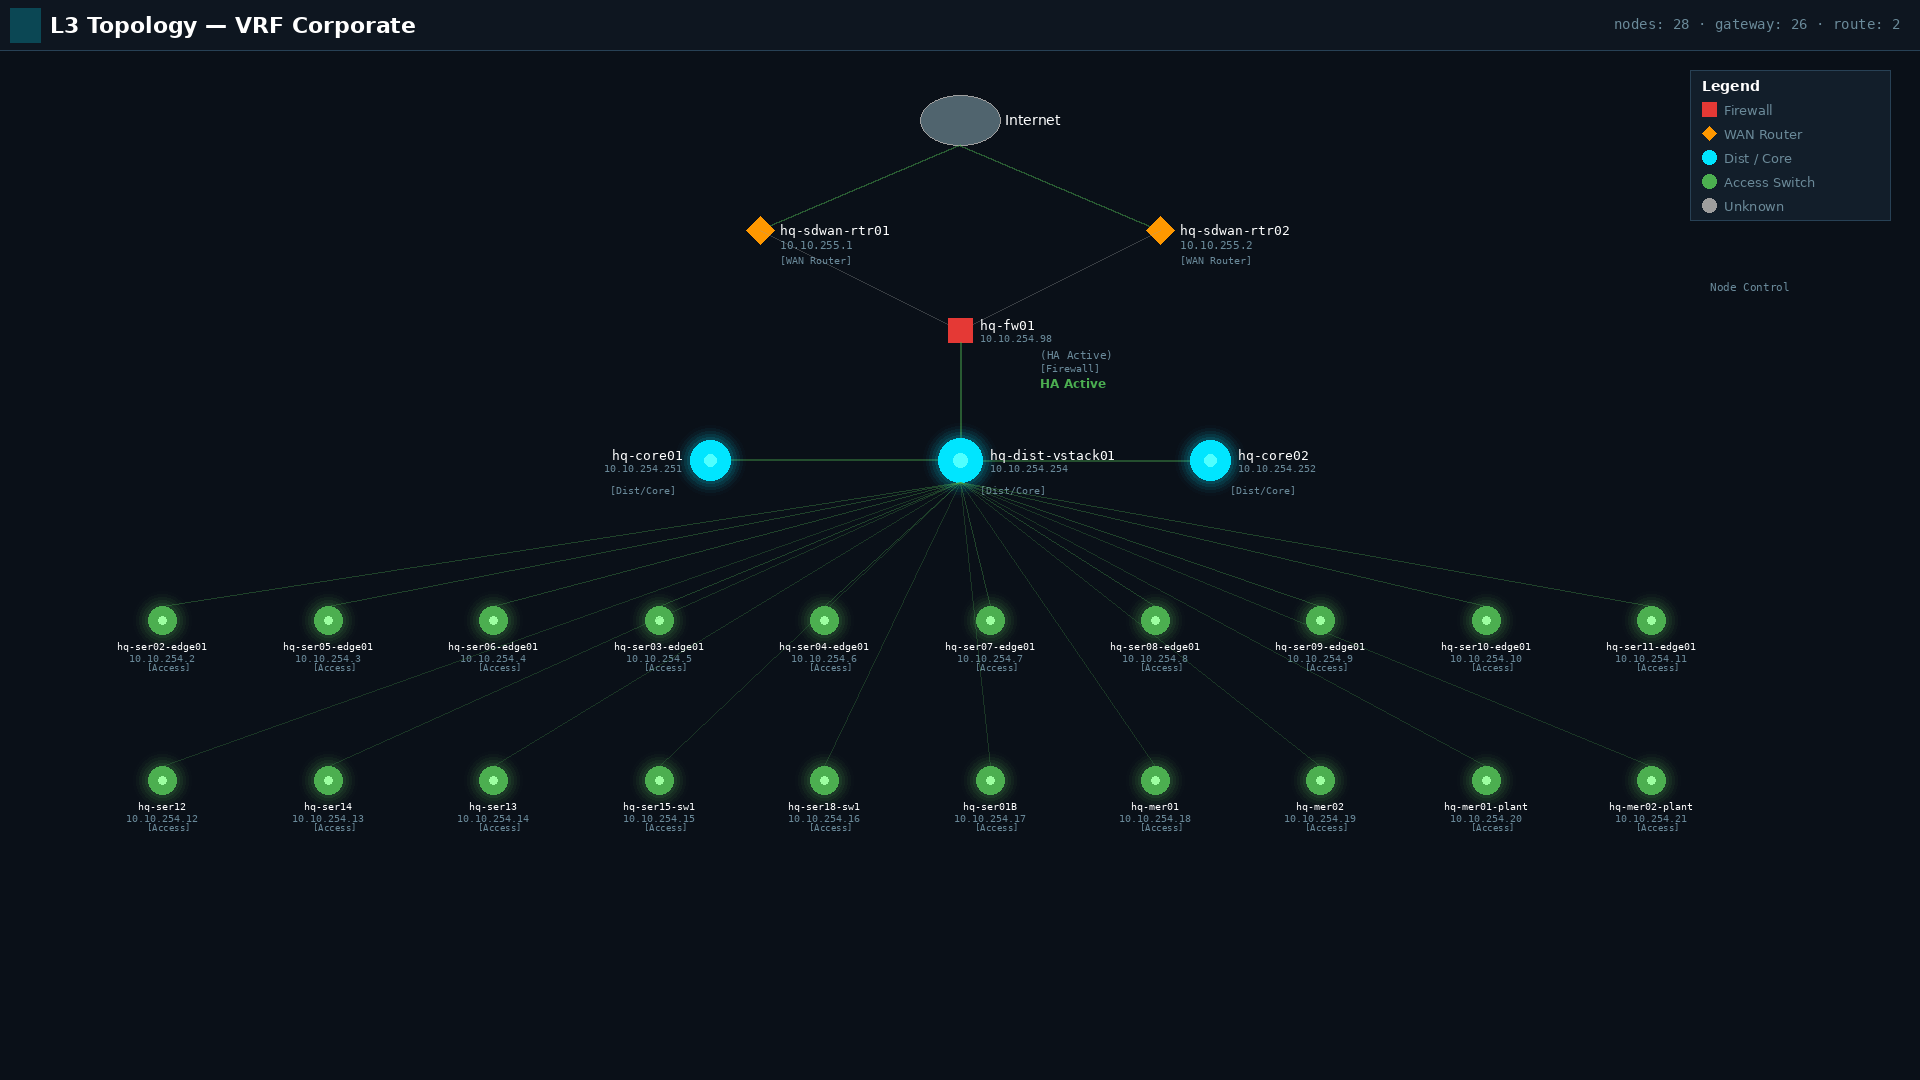
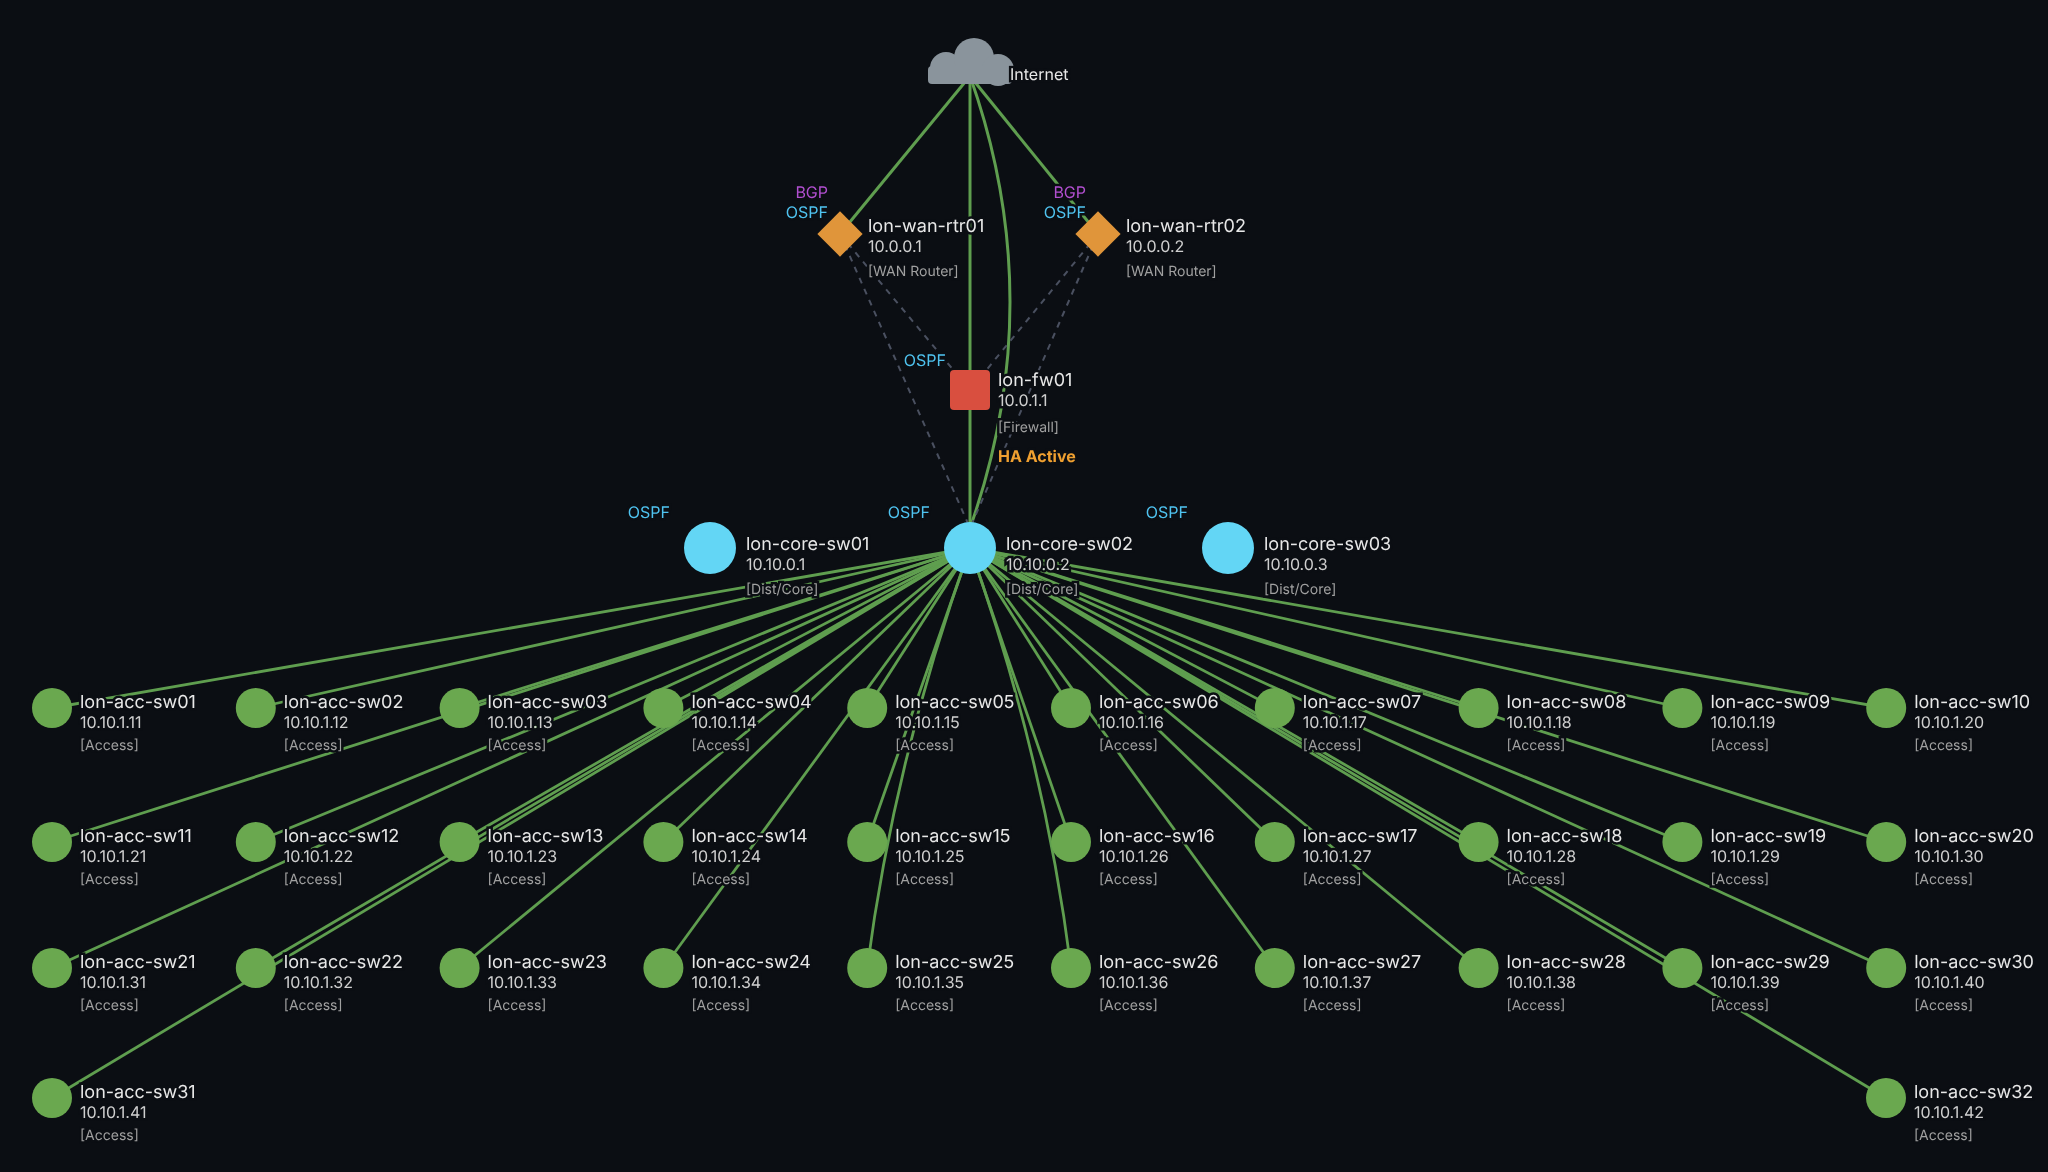
Replace the L3 topology screenshot that still showed a customer network.
The public map now uses the rebuilt lon-* diagram, with a 1x file so the pages can reserve the right size.

diff --git a/features/topology-mapping/index.html b/features/topology-mapping/index.html
@@ -167,7 +167,7 @@ height="0" width="0" style="display:none;visibility:hidden"></iframe></noscript>
                 <img src="/images/screenshots/nc-l2-highlight-links.png" alt="L2 Highlighted Links" width="900" height="1100">
             </figure>
             <figure class="free-shot">
-                <img src="/images/screenshots/nc-l3-topology.png" alt="L3 Topology View" width="1920" height="1080">
+                <img src="/images/screenshots/nc-l3-topology@1x.png" srcset="/images/screenshots/nc-l3-topology@1x.png 1x, /images/screenshots/nc-l3-topology.png 2x" alt="L3 Topology View" width="1024" height="586" loading="lazy">
             </figure>
             <figure class="free-shot">
                 <img src="/images/screenshots/nc-mac-table.png" alt="MAC Address Table" width="1100" height="900">

diff --git a/index.html b/index.html
@@ -352,7 +352,7 @@ height="0" width="0" style="display:none;visibility:hidden"></iframe></noscript>
                     <span class="screenshot-label">L2 &mdash; Link &amp; Interface Highlighting</span>
                 </div>
                 <div class="screenshot-card">
-                    <img src="images/screenshots/nc-l3-topology.png" alt="L3 Topology View" loading="lazy">
+                    <img src="images/screenshots/nc-l3-topology@1x.png" srcset="images/screenshots/nc-l3-topology@1x.png 1x, images/screenshots/nc-l3-topology.png 2x" alt="L3 Topology View" width="1024" height="586" loading="lazy">
                     <span class="screenshot-label">L3 Topology &mdash; VRF Corporate</span>
                 </div>
             </div>

diff --git a/js/free-form.js b/js/free-form.js
@@ -108,7 +108,10 @@
                 shot.src = '../images/screenshots/nc-sdwan-watcher-topology.png';
                 shot.alt = 'Watcher of The WAN topology';
             } else {
-                shot.src = '../images/screenshots/nc-l3-topology.png';
+                shot.src = '../images/screenshots/nc-l3-topology@1x.png';
+                shot.srcset = '../images/screenshots/nc-l3-topology@1x.png 1x, ../images/screenshots/nc-l3-topology.png 2x';
+                shot.width = 1024;
+                shot.height = 586;
                 shot.alt = 'L3 topology view';
             }
         } else if (matches(['automation', 'compliance', 'lab-export', 'labexport', 'security-audit', 'securityaudit', 'psirt', 'config-push', 'configpush'])) {
